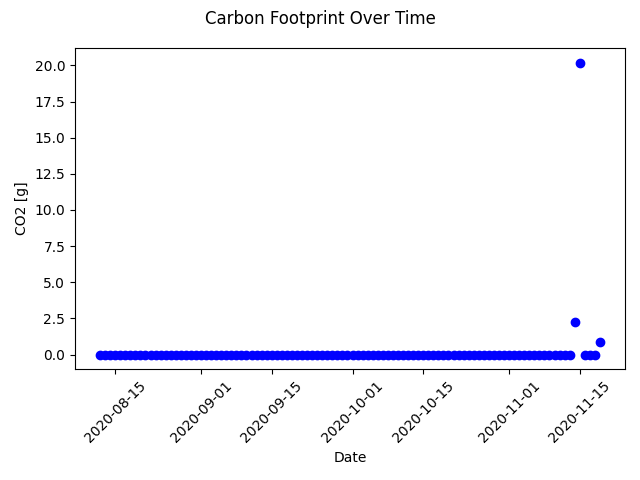
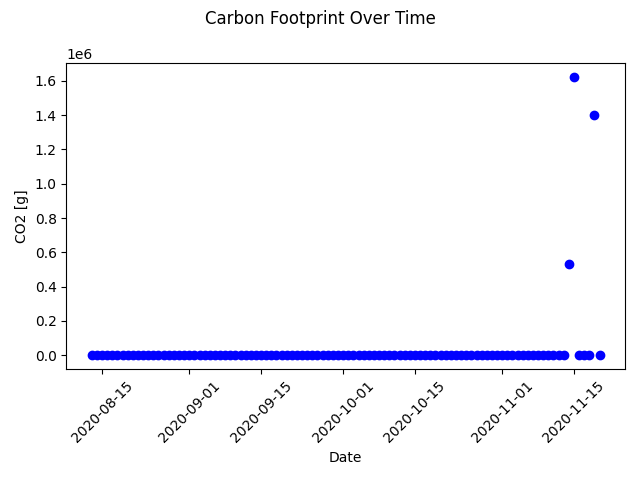
fixed model

diff --git a/Modelling/CarbonFootprint/main.py b/Modelling/CarbonFootprint/main.py
@@ -5,8 +5,8 @@ import os
 import csv
 import pandas as pd
 from datetime import datetime, date
-# import matplotlib.pyplot as plt
-# from matplotlib.dates import date2num
+import matplotlib.pyplot as plt
+from matplotlib.dates import date2num
 
 from dotenv import load_dotenv
 from model import getCarbonFootprint
@@ -32,20 +32,20 @@ def writeToCSV(csv_filename, data):
 		for _date, grams_carbon in data.items():
 			writer.writerow([_date, grams_carbon])
 
-# def plotToPNG(carbon_footprints):
-# 	x, y = zip(*carbon_footprints.items())
-# 	fig = plt.figure()
-# 	fig.suptitle("Carbon Footprint Over Time")
+def plotToPNG(carbon_footprints):
+	x, y = zip(*carbon_footprints.items())
+	fig = plt.figure()
+	fig.suptitle("Carbon Footprint Over Time")
 
-# 	# Setup formatting of dates
-# 	plt.plot_date(date2num(x), y, fmt="bo", tz=None, xdate=True)	
+	# Setup formatting of dates
+	plt.plot_date(date2num(x), y, fmt="bo", tz=None, xdate=True)	
 	
-# 	plt.xlabel("Date")
-# 	plt.ylabel("CO2 [g]")
-# 	plt.xticks(rotation=45)
-# 	plt.tight_layout()
+	plt.xlabel("Date")
+	plt.ylabel("CO2 [g]")
+	plt.xticks(rotation=45)
+	plt.tight_layout()
 	
-# 	fig.savefig(FIGURENAME)
+	fig.savefig(FIGURENAME)
 
 
 if __name__ == "__main__":
@@ -72,7 +72,7 @@ if __name__ == "__main__":
 
 	# writeToCSV(args.csv_filename, carbon_footprints)
 
-	# plotToPNG(carbon_footprints)
+	plotToPNG(carbon_footprints)
 	for date, grams_carbon in carbon_footprints.items():
 		print(f"{date},{grams_carbon}")
 

diff --git a/Modelling/CarbonFootprint/model.py b/Modelling/CarbonFootprint/model.py
@@ -2,6 +2,8 @@ from geopy.distance import geodesic
 from geopy.geocoders import Nominatim
 from typing import Dict, Tuple
 
+delivery_truck_weight = 8000 / 2000 # in tons
+
 def getCoordinates(address_dict: Dict):
     geolocator = Nominatim(user_agent="FYDP")
     location = geolocator.geocode(address_dict)
@@ -28,10 +30,11 @@ def getCarbonFootprintTruck(weight, distance):
     "average freight truck in the U.S. emits 161.8 grams of CO2 per ton-mile"
     - where "ton" is 2000 lbs
     """
-    tons = gramsToLbs(weight) / 2000.0
+    tons_package = gramsToLbs(weight) / 2000.0
+    total_weight = tons_package + delivery_truck_weight
     
-    ton_mile = tons * distance
-    grams_CO2 = 161.8 / ton_mile
+    ton_mile = total_weight * distance
+    grams_CO2 = 161.8 * ton_mile
     return grams_CO2
 
 
